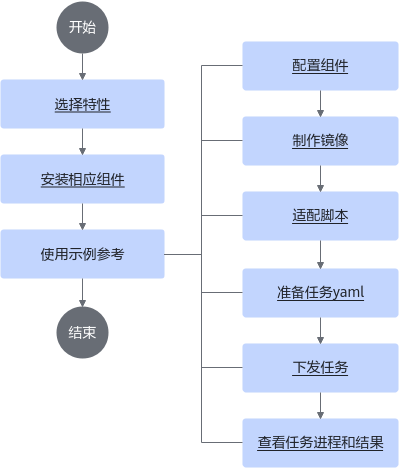
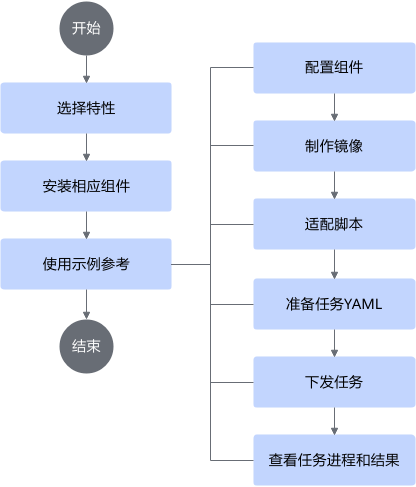
【docs】修改描述中的Torch-npu、PTA为TorchNPU；修改资料错误；修改版本说明书内容

diff --git a/docs/zh/scheduling/04_usage/09_infer_operator_best_practice/05_configuring_elastic_scaling.md b/docs/zh/scheduling/04_usage/09_infer_operator_best_practice/05_configuring_elastic_scaling.md
@@ -4,8 +4,8 @@ Infer Operator支持给推理实例配置弹性扩缩容策略，从而实现基
 
 ## 前置准备
 
-1. 已完成Infer Operator的[安装部署](../../05_developer_guide/00_installation_deployment/00_manual_installation/07_infer_operator.md)。
-2. 如需配置扩缩容指标类型为External，需先实现并部署相应的External Metrics Adaptor，该Adaptor需要提供推理实例的负载指标（例如请求队列长度、请求处理时间等），可参考[示例](https://gitcode.com/Ascend/mindcluster-deploy/tree/master/infer-operator-metrics-adaptor)进行实现。若为[基于MindIE PyMotor部署Infer Operator推理任务](./02_deploying_infer_operator_inference_job_with_mindie_pymotor.md)场景，可直接部署使用该示例提供的Metrics Adaptor。
+- 已完成Infer Operator的[安装部署](../../05_developer_guide/00_installation_deployment/00_manual_installation/07_infer_operator.md)。
+- 如需配置扩缩容指标类型为External，需先实现并部署相应的External Metrics Adaptor，该Adaptor需要提供推理实例的负载指标（例如请求队列长度、请求处理时间等），可参考[示例](https://gitcode.com/Ascend/mindcluster-deploy/tree/master/infer-operator-metrics-adaptor)进行实现。若为[基于MindIE PyMotor部署Infer Operator推理任务](./02_deploying_infer_operator_inference_job_with_mindie_pymotor.md)场景，可直接部署使用该示例提供的Metrics Adaptor。
 
 ## 弹性扩缩容原理
 
@@ -30,20 +30,20 @@ spec:
       workload:     # prefill中实例的CRD类型信息
         apiVersion: apps/v1
         kind: StatefulSet # workload类型，当前支持StatefulSet/Deployment
-      <strong>scalingPolicy:
-        type: HPA # 弹性扩缩容策略类型，当前支持HPA
-        spec: # HPA配置
-          minReplicas: 1 # 缩容下限
-          maxReplicas: 4 # 扩容上限
-          metrics: # HPA扩缩容指标配置列表
-          - type: External # 指标类型：外部自定义指标（由External Metrics Adapter提供）
-            external:
-              metric:
-                name: num_requests_waiting # 外部指标名称
-              target: # 目标值配置
-                type: AverageValue
-                averageValue: "5"
-          ... # 其他HPA配置项，根据需要添加，需符合HPA配置规范</strong>
+      <strong>scalingPolicy:</strong>
+        <strong>type: HPA # 弹性扩缩容策略类型，当前支持HPA</strong>
+        <strong>spec: # HPA配置</strong>
+          <strong>minReplicas: 1 # 缩容下限</strong>
+          <strong>maxReplicas: 4 # 扩容上限</strong>
+          <strong>metrics: # HPA扩缩容指标配置列表</strong>
+          <strong>- type: External # 指标类型：外部自定义指标（由External Metrics Adapter提供）</strong>
+            <strong>external:</strong>
+              <strong>metric:</strong>
+                <strong>name: num_requests_waiting # 外部指标名称</strong>
+              <strong>target: # 目标值配置</strong>
+                <strong>type: AverageValue</strong>
+                <strong>averageValue: "5"</strong>
+          <strong>... # 其他HPA配置项，根据需要添加，需符合HPA配置规范</strong>
       metadata:
         labels:
           infer.huawei.com/gang-schedule: 'false' # 关闭gang调度，开启时会为每一个workload实例创建PodGroup
@@ -81,20 +81,20 @@ spec:
       workload:     # decode中实例的CRD类型信息
         apiVersion: apps/v1
         kind: StatefulSet # workload类型，当前支持StatefulSet/Deployment
-      <strong>scalingPolicy:
-        type: HPA # 弹性扩缩容策略类型，当前支持HPA
-        spec: # HPA配置
-          minReplicas: 1 # 缩容下限
-          maxReplicas: 4 # 扩容上限
-          metrics: # HPA扩缩容指标配置列表
-          - type: External # 指标类型：外部自定义指标（由External Metrics Adapter提供）
-            external:
-              metric:
-                name: generation_tokens_per_second # 外部指标名称
-              target: # 目标值配置
-                type: AverageValue
-                averageValue: "10"
-          ... # 其他HPA配置项，根据需要添加，需符合HPA配置规范</strong>
+      <strong>scalingPolicy:</strong>
+        <strong>type: HPA # 弹性扩缩容策略类型，当前支持HPA</strong>
+        <strong>spec: # HPA配置</strong>
+          <strong>minReplicas: 1 # 缩容下限</strong>
+          <strong>maxReplicas: 4 # 扩容上限</strong>
+          <strong>metrics: # HPA扩缩容指标配置列表</strong>
+          <strong>- type: External # 指标类型：外部自定义指标（由External Metrics Adapter提供）</strong>
+            <strong>external:</strong>
+              <strong>metric:</strong>
+                <strong>name: generation_tokens_per_second # 外部指标名称</strong>
+              <strong>target: # 目标值配置</strong>
+                <strong>type: AverageValue</strong>
+                <strong>averageValue: "10"</strong>
+          <strong>... # 其他HPA配置项，根据需要添加，需符合HPA配置规范</strong>
       metadata:
         labels:
           infer.huawei.com/gang-schedule: 'false' # 关闭gang调度，开启时会为每一个workload实例创建PodGroup

diff --git a/docs/zh/release_notes.md b/docs/zh/release_notes.md
@@ -32,7 +32,7 @@
 
 |MindCluster|CANN| HDK                                                                   |MindSpeed-LLM|TorchNPU|MindSpore|
 |--|--|-----------------------------------------------------------------------|--|--|--|
-|26.1.0|9.1.0| <ul><li>26.1.0(Atlas A2/A3系列)</li><li> 25.1.RC1(Atlas A5系列)</li></ul> |26.1.0|26.1.0|2.10.0|
+|26.1.0|9.1.0| <ul><li>Atlas A2/A3 系列产品：26.1.0</li><li>Ascend 950 系列产品：25.1.RC1</li></ul> |26.1.0|26.1.0|2.10.0|
 
 ### 版本兼容性说明
 
@@ -257,7 +257,7 @@ MindCluster各组件需要配套使用，请勿跨版本混用各组件。
 |--|----------------------------------------------------------------------------------------------------------------------------------------------------------------------------------------------------------------------------------------------------------------------------------------------------------------------------------------------------------------------------------------------------------------------------------------------------------------------------------------------------------------------------------------------------------------------------------------------------------------------|
 |MindIO| MindIO支持IPv6场景。                                                                                                                                                                                                                                                                                                                                                                                                                                                                                                                                                                                                      |
 |MindCluster Ascend FaultDiag| <ul><li>新增Ascend 950 系列产品的故障模式库。</li><li>新增基于pyMotor+vLLM的故障模式库。</li><li>优化链路诊断工具输出报告的内容。</li><li>故障诊断支持IPv6场景。</li></ul>                                                                                                                                                                                                                                                                                                                                                                                                                                                                                            |
-|MindCluster基础组件| <ul><li>支持存储DTFS故障。</li><li>Volcano支持Pod优先调度回原运行节点。</li><li>Ascend device plugin故障处理插件化。</li><li>支持带内检测1825故障上报。</li><li>提供1825网卡的RDMA设备插件。</li><li>发布镜像新增openEuler。</li><li>社区资料、组件的安装与部署易用性提升。</li><li>NPU Exporter支持分组配置采集周期。</li><li>Atlas 9000 A3 SuperPoD 集群算力系统能力补齐。</li><li>支持配置存活探针。</li><li>新增卡死检测与恢复功能。</li><li>支持Atlas 850 系列硬件产品和Atlas 950 SuperPoD的设备管理、亲和性调度、指标监控、故障检测，RankTable生成等基础能力。</li><li>支持Atlas 850 系列硬件产品的基础断点续训能力；支持Atlas 950 SuperPoD的全量断点续训能力。</li><li>支持Atlas 850 系列硬件产品和Atlas 950 SuperPoD的容器化能力。</li><li>支持推理故障恢复能力，包括优先级调度、缩P保D和实例级重调度。</li><li>支持推理场景基于负载的弹性扩缩容能力和容器快照能力。</li></ul> |
+|MindCluster基础组件| <ul><li>支持存储DTFS故障。</li><li>Volcano支持Pod优先调度回原运行节点。</li><li>Ascend Device Plugin故障处理插件化。</li><li>支持带内检测1825故障上报。</li><li>提供1825网卡的RDMA设备插件。</li><li>发布镜像新增openEuler。</li><li>社区资料、组件的安装与部署易用性提升。</li><li>NPU Exporter支持分组配置采集周期。</li><li>Atlas 9000 A3 SuperPoD 集群算力系统能力补齐。</li><li>支持配置存活探针。</li><li>新增卡死检测与恢复功能。</li><li>支持Atlas 850 系列硬件产品和Atlas 950 SuperPoD的设备管理、亲和性调度、指标监控、故障检测，RankTable生成等基础能力。</li><li>支持Atlas 850 系列硬件产品的基础断点续训能力；支持Atlas 950 SuperPoD的全量断点续训能力。</li><li>支持Atlas 850 系列硬件产品和Atlas 950 SuperPoD的容器化能力。</li><li>支持推理故障恢复能力，包括优先级调度、缩P保D和实例级重调度。</li><li>支持推理场景基于负载的弹性扩缩容能力和容器快照能力。</li></ul> |
 
 ### 关键特性变更
 
@@ -268,10 +268,10 @@ MindCluster基础组件：
 
 ### 业务接口变更
 
-|特性名称| 接口变更                                                                                                                                 |
-|--|--------------------------------------------------------------------------------------------------------------------------------------|
-|MindCluster Ascend FaultDiag| <ul><li>链路诊断工具新增配置命令set_config_dir，当前仅支持设置组网配置文件LLD.xlsx所在路径。</li><li>性能劣化功能（资源抢占和网络拥塞）采集指标数据时对训练、推理业务性能有一定影响，该特性将在后续版本日落。</li></ul> |
-|MindCluster基础组件| <ul><li>所有K8s组件新增了存活探针。</li></ul>|                                                                                                    |
+|特性名称|接口变更|
+|--|--|
+|MindCluster Ascend FaultDiag|<ul><li>链路诊断工具新增配置命令set_config_dir，当前仅支持设置组网配置文件LLD.xlsx所在路径。</li><li>性能劣化功能（资源抢占和网络拥塞）采集指标数据时对训练、推理业务性能有一定影响，该特性将在后续版本日落。</li></ul>|
+|MindCluster基础组件|所有K8s组件新增存活探针。|
 
 ### 已解决的问题
 
@@ -282,8 +282,7 @@ MindCluster基础组件：
 
 ### 遗留问题
 
-进程级重调度特性在多次重调度恢复后，可能存在pytorch原生组件gloo的段错误问题，概率约0.00125，[细节可参考pytorch的issue 188266](https://github.com/pytorch/pytorch/issues/188266)。
-可以通过配置Job/Pod重调度作为兜底措施。
+进程级别重调度特性在多次重调度恢复后，可能存在PyTorch原生组件gloo的段错误问题，概率约0.00125，详细请参见[issue 188266](https://github.com/pytorch/pytorch/issues/188266)。可以通过配置Job/Pod重调度作为兜底措施。
 
 ## 升级影响
 

diff --git a/docs/zh/scheduling/06_api/15_yaml_configuration.md b/docs/zh/scheduling/06_api/15_yaml_configuration.md
@@ -76,7 +76,7 @@
 |status.replicaStatuses.[ReplicaType].labelSelector.matchLabels|对象 (object)|-|标签匹配的键值对（等价于matchExpressions条件）。|
 |status.startTime|字符串 (string)|date-time|作业开始时间（RFC3339格式，UTC）。|
 |metadata.annotations['huawei.com/AscendXXX']|字符串 (string)|-|XXX表示芯片的型号，支持的取值为910，310和310P。取值需要和环境上实际的芯片类型保持一致。Ascend Docker Runtime会获取该参数值，用于给容器挂载相应类型的NPU。<div class="note"><span class="notetitle">[!NOTE] 说明</span><div class="notebody"><ul><li>该参数只支持使用Volcano调度器的整卡调度特性，使用静态vNPU调度和其他调度器的用户需要删除示例YAML中该参数的相关字段。</li><li>Atlas 350 标卡、Atlas 850 系列硬件产品、Atlas 950 SuperPoD需配置为metadata.annotations['huawei.com/npu']。</li></ul></div></div>|
-|huawei.com/Ascend910|数字|-|请求的NPU数量，请根据实际修改。<div class="note"><span class="notetitle">[!NOTE] 说明</span><div class="notebody">Atlas 350 标卡、Atlas 850 系列硬件产品、Atlas 950 SuperPoD需配置为metadata.annotations['huawei.com/npu']。</div></div>Atlas 800 训练服务器（NPU满配）：<ul><li>单机单芯片任务：1</li><li>单机多芯片任务：2、4、8</li><li>分布式任务：1、2、4、8</li></ul>Atlas 800训练服务器（NPU半配）：<ul><li>单机单芯片任务：1</li><li>单机多芯片任务：2、4</li><li>分布式任务：1、2、4</li></ul>服务器（插Atlas 300T训练卡）：<ul><li>单机单芯片任务：1</li><li>单机多芯片任务：2</li><li>分布式任务：2</li></ul>Atlas 800T A2训练服务器和Atlas 900 A2 PoD集群基础单元：<ul><li>单机单芯片任务：1</li><li>单机多芯片任务：2、3、4、5、6、7、8</li><li>分布式任务：1、2、3、4、5、6、7、8</li></ul>Atlas 200T A2 Box16 异构子框和Atlas 200I A2 Box16 异构子框：<ul><li>单机单芯片任务：1</li><li>单机多芯片任务：2、3、4、5、6、7、8、10、12、14、16</li><li>分布式任务：1、2、3、4、5、6、7、8、10、12、14、16</li></ul>Atlas 900 A3 SuperPoD 超节点、A200T A3 Box8 超节点服务器、Atlas 800T A3 超节点服务器：<ul><li>单机单芯片任务：1</li><li>单机多芯片任务：2、4、6、8、10、12、14、16</li><li>分布式任务：2、4、6、8、10、12、14、16</li><li>针对Atlas 900 A3 SuperPoD 超节点的逻辑超节点亲和任务：16</li></ul>Atlas 350 标卡服务器（无互联节点内8卡）：<ul><li>单机：1、2、3、4、5、6、7、8</li><li>分布式：1、2、3、4、5、6、7、8</li></ul>Atlas 350 标卡服务器（无互联节点内16卡）：<ul><li>单机：1、2、3、4、5、6、7、8、9、10、11、12、13、14、15、16</li><li>分布式：1、2、3、4、5、6、7、8、9、10、11、12、13、14、15、16</li></ul>Atlas 350 标卡（4P mesh 8卡）：<ul><li>单机（满足亲和性）：1、2、3、4、8</li><li>单机（不保证亲和性）：5、6、7</li><li>分布式（满足亲和性）：1、2、3、4、8</li><li>分布式（不保证亲和性）：5、6、7</li></ul>Atlas 350 标卡（4P mesh 16卡）：<ul><li>单机（满足亲和性）：1、2、3、4、8、12、16</li><li>单机（不保证亲和性）：5、6、7、9、10、11、13、14、15</li><li>分布式（满足亲和性）：1、2、3、4、8、12、16</li><li>分布式（不保证亲和性）：5、6、7、9、10、11、13、14、15</li></ul>Atlas 850 系列硬件产品（普通集群）：<ul><li>单机：1、2、3、4、5、6、7、8</li><li>分布式：1、2、3、4、5、6、7、8</li></ul>Atlas 850 系列硬件产品（超节点集群）：<ul><li>单机：1、2、4、8（sp-block参数取值与其保持一致）</li><li>分布式：8（sp-block参数取值需为8或8的倍数，且能被任务所需总卡数整除，且不能大于物理超节点大小）</li></ul>Atlas 950 SuperPoD：<ul><li>单机：1、2、3、4、5、6、7、8（sp-block参数取值与其保持一致）</li><li>分布式：8（sp-block参数取值需为8或8的倍数，且能被任务所需总卡数整除，且不能大于物理超节点大小）</li></ul>|
+|huawei.com/Ascend910|数字|-|请求的NPU数量，请根据实际修改。<div class="note"><span class="notetitle">[!NOTE] 说明</span><div class="notebody">Atlas 350 标卡、Atlas 850 系列硬件产品、Atlas 950 SuperPoD需配置为metadata.annotations['huawei.com/npu']。</div></div>Atlas 800 训练服务器（NPU满配）：<ul><li>单机单芯片任务：1</li><li>单机多芯片任务：2、4、8</li><li>分布式任务：1、2、4、8</li></ul>Atlas 800训练服务器（NPU半配）：<ul><li>单机单芯片任务：1</li><li>单机多芯片任务：2、4</li><li>分布式任务：1、2、4</li></ul>服务器（插Atlas 300T训练卡）：<ul><li>单机单芯片任务：1</li><li>单机多芯片任务：2</li><li>分布式任务：2</li></ul>Atlas 800T A2训练服务器和Atlas 900 A2 PoD集群基础单元：<ul><li>单机单芯片任务：1</li><li>单机多芯片任务：2、3、4、5、6、7、8</li><li>分布式任务：1、2、3、4、5、6、7、8</li></ul>Atlas 200T A2 Box16 异构子框和Atlas 200I A2 Box16 异构子框：<ul><li>单机单芯片任务：1</li><li>单机多芯片任务：2、3、4、5、6、7、8、10、12、14、16</li><li>分布式任务：1、2、3、4、5、6、7、8、10、12、14、16</li></ul>Atlas 900 A3 SuperPoD 超节点、A200T A3 Box8 超节点服务器、Atlas 800T A3 超节点服务器：<ul><li>单机单芯片任务：1</li><li>单机多芯片任务：2、4、6、8、10、12、14、16</li><li>分布式任务：2、4、6、8、10、12、14、16</li><li>针对Atlas 900 A3 SuperPoD 超节点的逻辑超节点亲和任务：16</li></ul>Atlas 350 标卡服务器（无互联节点内8卡）：<ul><li>单机：1、2、3、4、5、6、7、8</li><li>分布式：1、2、3、4、5、6、7、8</li></ul>Atlas 350 标卡服务器（无互联节点内16卡）：<ul><li>单机：1、2、3、4、5、6、7、8、9、10、11、12、13、14、15、16</li><li>分布式：1、2、3、4、5、6、7、8、9、10、11、12、13、14、15、16</li></ul>Atlas 350 标卡服务器（4P mesh 8卡）：<ul><li>单机（满足亲和性）：1、2、3、4、8</li><li>单机（不保证亲和性）：5、6、7</li><li>分布式（满足亲和性）：1、2、3、4、8</li><li>分布式（不保证亲和性）：5、6、7</li></ul>Atlas 350 标卡服务器（4P mesh 16卡）：<ul><li>单机（满足亲和性）：1、2、3、4、8、12、16</li><li>单机（不保证亲和性）：5、6、7、9、10、11、13、14、15</li><li>分布式（满足亲和性）：1、2、3、4、8、12、16</li><li>分布式（不保证亲和性）：5、6、7、9、10、11、13、14、15</li></ul>Atlas 850 系列硬件产品（普通集群）：<ul><li>单机：1、2、3、4、5、6、7、8</li><li>分布式：1、2、3、4、5、6、7、8</li></ul>Atlas 850 系列硬件产品（超节点集群）：<ul><li>单机：1、2、4、8（sp-block参数取值与其保持一致）</li><li>分布式：8（sp-block参数取值需为8或8的倍数，且能被任务所需总卡数整除，且不能大于物理超节点大小）</li></ul>Atlas 950 SuperPoD：<ul><li>单机：1、2、3、4、5、6、7、8（sp-block参数取值与其保持一致）</li><li>分布式：8（sp-block参数取值需为8或8的倍数，且能被任务所需总卡数整除，且不能大于物理超节点大小）</li></ul>|
 |super-pod-affinity|字符串 (string)|-|<p>仅支持在Atlas 900 A3 SuperPoD 超节点中使用本参数。超节点任务使用的亲和性调度策略，需要用户在YAML的label中声明。</p><ul><li>soft：集群资源不满足超节点亲和性时，任务使用集群中碎片资源继续调度。</li><li>hard：集群资源不满足超节点亲和性时，任务Pending，等待资源。</li><li>其他值或不传入此参数：强制超节点亲和性调度</li></ul>|
 |<ul><li>customJobKey</li><li>custom-job-id</li></ul>|字符串 (string)|-|<p>支持通过customJobKey或custom-job-id设置作业唯一标识符，方便用户根据该标识符过滤作业相关的告警、ISSUE等关键信息。在资源AscendJob的metadata.labels标签中设置。</p><ul><li>customJobKey：用户自定义标签，以二级跳转的方式设置作业唯一标识符，如：<p>customJobKey: tid</p><p>tid: "123456"</p></li><li>custom-job-id：用户自定义标签，直接设置作业唯一标识符，如：<p>custom-job-id："123456"</p></li></ul>|
 |huawei.com/scheduler.softShareDev.aicoreQuota|字符串 (string)|-|请求的AICore百分比，取值范围为[1, 100]。|
@@ -243,7 +243,7 @@
     </ul>
 </li>
 <li>
-    <span>Atlas 350 标卡（4P mesh 8卡）</span>：
+    <span>Atlas 350 标卡服务器（4P mesh 8卡）</span>：
     <ul>
         <li>单机（满足亲和性）：1、2、3、4、8</li>
         <li>单机（不保证亲和性）：5、6、7</li>
@@ -252,7 +252,7 @@
     </ul>
 </li>
 <li>
-    <span>Atlas 350 标卡（4P mesh 16卡）</span>：
+    <span>Atlas 350 标卡服务器（4P mesh 16卡）</span>：
     <ul>
         <li>单机（满足亲和性）：1、2、3、4、8、12、16</li>
         <li>单机（不保证亲和性）：5、6、7、9、10、11、13、14、15</li>
@@ -340,7 +340,7 @@
     </ul>
 </li>
 <li>
-    <span>Atlas 350 标卡（4P mesh 8卡）</span>：
+    <span>Atlas 350 标卡服务器（4P mesh 8卡）</span>：
     <ul>
         <li>单机（满足亲和性）：1、2、3、4、8</li>
         <li>单机（不保证亲和性）：5、6、7</li>
@@ -349,7 +349,7 @@
     </ul>
 </li>
 <li>
-    <span>Atlas 350 标卡（4P mesh 16卡）</span>：
+    <span>Atlas 350 标卡服务器（4P mesh 16卡）</span>：
     <ul>
         <li>单机（满足亲和性）：1、2、3、4、8、12、16</li>
         <li>单机（不保证亲和性）：5、6、7、9、10、11、13、14、15</li>
@@ -728,7 +728,7 @@
     </ul>
 </li>
 <li>
-    <span>Atlas 350 标卡（4P mesh 8卡）</span>：
+    <span>Atlas 350 标卡服务器（4P mesh 8卡）</span>：
     <ul>
         <li>单机（满足亲和性）：1、2、3、4、8</li>
         <li>单机（不保证亲和性）：5、6、7</li>
@@ -737,7 +737,7 @@
     </ul>
 </li>
 <li>
-    <span>Atlas 350 标卡（4P mesh 16卡）</span>：
+    <span>Atlas 350 标卡服务器（4P mesh 16卡）</span>：
     <ul>
         <li>单机（满足亲和性）：1、2、3、4、8、12、16</li>
         <li>单机（不保证亲和性）：5、6、7、9、10、11、13、14、15</li>

diff --git a/docs/zh/scheduling/04_usage/04_resumable_training/03_configuration/03_configuring_training_recovery.md b/docs/zh/scheduling/04_usage/04_resumable_training/03_configuration/03_configuring_training_recovery.md
@@ -238,7 +238,7 @@ spec:
 
 **故障检测时间优化<a name="zh-cn_topic_0000002163883997_zh-cn_topic_0000002017918296_section195202179141"></a>**
 
-由于集群中出现的参数面网络故障不一定会影响训练任务，因此集群调度组件不会强制中断任务；当参数面网络故障影响训练任务时，会触发集合通信的网络超时等待机制，在等待时间（默认为30分钟）后，集群调度组件才能感知到该故障，从而触发断点续训。针对该问题，PyTorch Adapter插件（torch\_npu）提供**watchdog故障检测**功能，可用于检测训练任务是否受到影响，缩短故障检测时间，该功能的详细说明请参见[表1](#zh-cn_topic_0000002163883997_zh-cn_topic_0000002017918296_table4822175901415)。
+由于集群中出现的参数面网络故障不一定会影响训练任务，因此集群调度组件不会强制中断任务；当参数面网络故障影响训练任务时，会触发集合通信的网络超时等待机制，在等待时间（默认为30分钟）后，集群调度组件才能感知到该故障，从而触发断点续训。针对该问题，PyTorch Adapter插件（TorchNPU）提供**watchdog故障检测**功能，可用于检测训练任务是否受到影响，缩短故障检测时间，该功能的详细说明请参见[表1](#zh-cn_topic_0000002163883997_zh-cn_topic_0000002017918296_table4822175901415)。
 
 **表 1** watchdog故障检测功能说明
 
@@ -255,7 +255,7 @@ spec:
 </tr>
 <tr id="zh-cn_topic_0000002163883997_zh-cn_topic_0000002017918296_row138235598144"><th class="firstcol" valign="top" width="20%" id="mcps1.2.3.3.1"><p id="zh-cn_topic_0000002163883997_zh-cn_topic_0000002017918296_p15823155941416"><a name="zh-cn_topic_0000002163883997_zh-cn_topic_0000002017918296_p15823155941416"></a><a name="zh-cn_topic_0000002163883997_zh-cn_topic_0000002017918296_p15823155941416"></a>使用说明</p>
 </th>
-<td class="cellrowborder" valign="top" width="80%" headers="mcps1.2.3.3.1 "><p id="zh-cn_topic_0000002163883997_zh-cn_topic_0000002017918296_p1982365912149"><a name="zh-cn_topic_0000002163883997_zh-cn_topic_0000002017918296_p1982365912149"></a><a name="zh-cn_topic_0000002163883997_zh-cn_topic_0000002017918296_p1982365912149"></a>仅支持<span id="zh-cn_topic_0000002163883997_zh-cn_topic_0000002017918296_ph1810104910187"><a name="zh-cn_topic_0000002163883997_zh-cn_topic_0000002017918296_ph1810104910187"></a><a name="zh-cn_topic_0000002163883997_zh-cn_topic_0000002017918296_ph1810104910187"></a>PyTorch</span> 1.11.0、2.1.0及以上版本；<span id="zh-cn_topic_0000002163883997_zh-cn_topic_0000002017918296_ph1758915488355"><a name="zh-cn_topic_0000002163883997_zh-cn_topic_0000002017918296_ph1758915488355"></a><a name="zh-cn_topic_0000002163883997_zh-cn_topic_0000002017918296_ph1758915488355"></a>PyTorch</span> Adapter插件（torch_npu）版本必须高于6.0.RC1。</p>
+<td class="cellrowborder" valign="top" width="80%" headers="mcps1.2.3.3.1 "><p id="zh-cn_topic_0000002163883997_zh-cn_topic_0000002017918296_p1982365912149"><a name="zh-cn_topic_0000002163883997_zh-cn_topic_0000002017918296_p1982365912149"></a><a name="zh-cn_topic_0000002163883997_zh-cn_topic_0000002017918296_p1982365912149"></a>仅支持<span id="zh-cn_topic_0000002163883997_zh-cn_topic_0000002017918296_ph1810104910187"><a name="zh-cn_topic_0000002163883997_zh-cn_topic_0000002017918296_ph1810104910187"></a><a name="zh-cn_topic_0000002163883997_zh-cn_topic_0000002017918296_ph1810104910187"></a>PyTorch</span> 1.11.0、2.1.0及以上版本；<span id="zh-cn_topic_0000002163883997_zh-cn_topic_0000002017918296_ph1758915488355"><a name="zh-cn_topic_0000002163883997_zh-cn_topic_0000002017918296_ph1758915488355"></a><a name="zh-cn_topic_0000002163883997_zh-cn_topic_0000002017918296_ph1758915488355"></a>PyTorch</span> Adapter插件（TorchNPU）版本必须高于6.0.RC1。</p>
 </td>
 </tr>
 <tr id="zh-cn_topic_0000002163883997_zh-cn_topic_0000002017918296_row11823195941410"><th class="firstcol" valign="top" width="20%" id="mcps1.2.3.4.1"><p id="zh-cn_topic_0000002163883997_zh-cn_topic_0000002017918296_p17823959121418"><a name="zh-cn_topic_0000002163883997_zh-cn_topic_0000002017918296_p17823959121418"></a><a name="zh-cn_topic_0000002163883997_zh-cn_topic_0000002017918296_p17823959121418"></a>关键操作</p>
@@ -291,8 +291,8 @@ Parallel Store多线程建链优化：PyTorch框架创建通信组时，使用TC
 </tr>
 <tr id="zh-cn_topic_0000002163883997_zh-cn_topic_0000002017918296_row1913318574324"><th class="firstcol" valign="top" width="20%" id="mcps1.2.3.3.1"><p id="zh-cn_topic_0000002163883997_zh-cn_topic_0000002017918296_p5133175711322"><a name="zh-cn_topic_0000002163883997_zh-cn_topic_0000002017918296_p5133175711322"></a><a name="zh-cn_topic_0000002163883997_zh-cn_topic_0000002017918296_p5133175711322"></a>使用说明</p>
 </th>
-<td class="cellrowborder" valign="top" width="80%" headers="mcps1.2.3.3.1 "><p id="zh-cn_topic_0000002163883997_zh-cn_topic_0000002017918296_p5133165713217"><a name="zh-cn_topic_0000002163883997_zh-cn_topic_0000002017918296_p5133165713217"></a><a name="zh-cn_topic_0000002163883997_zh-cn_topic_0000002017918296_p5133165713217"></a><span id="zh-cn_topic_0000002163883997_zh-cn_topic_0000002017918296_ph1493841033420"><a name="zh-cn_topic_0000002163883997_zh-cn_topic_0000002017918296_ph1493841033420"></a><a name="zh-cn_topic_0000002163883997_zh-cn_topic_0000002017918296_ph1493841033420"></a>PyTorch</span> 1.11.0版本：<span id="zh-cn_topic_0000002163883997_zh-cn_topic_0000002017918296_ph14923134593417"><a name="zh-cn_topic_0000002163883997_zh-cn_topic_0000002017918296_ph14923134593417"></a><a name="zh-cn_topic_0000002163883997_zh-cn_topic_0000002017918296_ph14923134593417"></a>PyTorch</span> Adapter插件（torch_npu）版本必须高于6.0.RC1。</p>
-<p id="zh-cn_topic_0000002163883997_zh-cn_topic_0000002017918296_p1599664014012"><a name="zh-cn_topic_0000002163883997_zh-cn_topic_0000002017918296_p1599664014012"></a><a name="zh-cn_topic_0000002163883997_zh-cn_topic_0000002017918296_p1599664014012"></a><span id="zh-cn_topic_0000002163883997_zh-cn_topic_0000002017918296_ph1199694044010"><a name="zh-cn_topic_0000002163883997_zh-cn_topic_0000002017918296_ph1199694044010"></a><a name="zh-cn_topic_0000002163883997_zh-cn_topic_0000002017918296_ph1199694044010"></a>PyTorch</span> 2.1.0及以上版本：<span id="zh-cn_topic_0000002163883997_zh-cn_topic_0000002017918296_ph13996140164020"><a name="zh-cn_topic_0000002163883997_zh-cn_topic_0000002017918296_ph13996140164020"></a><a name="zh-cn_topic_0000002163883997_zh-cn_topic_0000002017918296_ph13996140164020"></a>PyTorch</span> Adapter插件（torch_npu）版本必须高于6.0.RC3。</p>
+<td class="cellrowborder" valign="top" width="80%" headers="mcps1.2.3.3.1 "><p id="zh-cn_topic_0000002163883997_zh-cn_topic_0000002017918296_p5133165713217"><a name="zh-cn_topic_0000002163883997_zh-cn_topic_0000002017918296_p5133165713217"></a><a name="zh-cn_topic_0000002163883997_zh-cn_topic_0000002017918296_p5133165713217"></a><span id="zh-cn_topic_0000002163883997_zh-cn_topic_0000002017918296_ph1493841033420"><a name="zh-cn_topic_0000002163883997_zh-cn_topic_0000002017918296_ph1493841033420"></a><a name="zh-cn_topic_0000002163883997_zh-cn_topic_0000002017918296_ph1493841033420"></a>PyTorch</span> 1.11.0版本：<span id="zh-cn_topic_0000002163883997_zh-cn_topic_0000002017918296_ph14923134593417"><a name="zh-cn_topic_0000002163883997_zh-cn_topic_0000002017918296_ph14923134593417"></a><a name="zh-cn_topic_0000002163883997_zh-cn_topic_0000002017918296_ph14923134593417"></a>PyTorch</span> Adapter插件（TorchNPU）版本必须高于6.0.RC1。</p>
+<p id="zh-cn_topic_0000002163883997_zh-cn_topic_0000002017918296_p1599664014012"><a name="zh-cn_topic_0000002163883997_zh-cn_topic_0000002017918296_p1599664014012"></a><a name="zh-cn_topic_0000002163883997_zh-cn_topic_0000002017918296_p1599664014012"></a><span id="zh-cn_topic_0000002163883997_zh-cn_topic_0000002017918296_ph1199694044010"><a name="zh-cn_topic_0000002163883997_zh-cn_topic_0000002017918296_ph1199694044010"></a><a name="zh-cn_topic_0000002163883997_zh-cn_topic_0000002017918296_ph1199694044010"></a>PyTorch</span> 2.1.0及以上版本：<span id="zh-cn_topic_0000002163883997_zh-cn_topic_0000002017918296_ph13996140164020"><a name="zh-cn_topic_0000002163883997_zh-cn_topic_0000002017918296_ph13996140164020"></a><a name="zh-cn_topic_0000002163883997_zh-cn_topic_0000002017918296_ph13996140164020"></a>PyTorch</span> Adapter插件（TorchNPU）版本必须高于6.0.RC3。</p>
 </td>
 </tr>
 <tr id="zh-cn_topic_0000002163883997_zh-cn_topic_0000002017918296_row16133957183217"><th class="firstcol" valign="top" width="20%" id="mcps1.2.3.4.1"><p id="zh-cn_topic_0000002163883997_zh-cn_topic_0000002017918296_p15134175723214"><a name="zh-cn_topic_0000002163883997_zh-cn_topic_0000002017918296_p15134175723214"></a><a name="zh-cn_topic_0000002163883997_zh-cn_topic_0000002017918296_p15134175723214"></a>关键操作</p>
@@ -352,7 +352,7 @@ Parallel Store多线程建链优化：PyTorch框架创建通信组时，使用TC
     </tr>
     <tr id="zh-cn_topic_0000002163883997_zh-cn_topic_0000002017918296_row2499424194015"><th class="firstcol" valign="top" width="20%" id="mcps1.2.3.3.1"><p id="zh-cn_topic_0000002163883997_zh-cn_topic_0000002017918296_p2499182413406"><a name="zh-cn_topic_0000002163883997_zh-cn_topic_0000002017918296_p2499182413406"></a><a name="zh-cn_topic_0000002163883997_zh-cn_topic_0000002017918296_p2499182413406"></a>使用说明</p>
     </th>
-    <td class="cellrowborder" valign="top" width="80%" headers="mcps1.2.3.3.1 "><p id="zh-cn_topic_0000002163883997_zh-cn_topic_0000002017918296_p44991248407"><a name="zh-cn_topic_0000002163883997_zh-cn_topic_0000002017918296_p44991248407"></a><a name="zh-cn_topic_0000002163883997_zh-cn_topic_0000002017918296_p44991248407"></a><span id="zh-cn_topic_0000002163883997_zh-cn_topic_0000002017918296_ph494239144114"><a name="zh-cn_topic_0000002163883997_zh-cn_topic_0000002017918296_ph494239144114"></a><a name="zh-cn_topic_0000002163883997_zh-cn_topic_0000002017918296_ph494239144114"></a>PyTorch</span> Adapter插件（torch_npu）版本必须高于6.0.RC3。</p>
+    <td class="cellrowborder" valign="top" width="80%" headers="mcps1.2.3.3.1 "><p id="zh-cn_topic_0000002163883997_zh-cn_topic_0000002017918296_p44991248407"><a name="zh-cn_topic_0000002163883997_zh-cn_topic_0000002017918296_p44991248407"></a><a name="zh-cn_topic_0000002163883997_zh-cn_topic_0000002017918296_p44991248407"></a><span id="zh-cn_topic_0000002163883997_zh-cn_topic_0000002017918296_ph494239144114"><a name="zh-cn_topic_0000002163883997_zh-cn_topic_0000002017918296_ph494239144114"></a><a name="zh-cn_topic_0000002163883997_zh-cn_topic_0000002017918296_ph494239144114"></a>PyTorch</span> Adapter插件（TorchNPU）版本必须高于6.0.RC3。</p>
     </td>
     </tr>
     <tr id="zh-cn_topic_0000002163883997_zh-cn_topic_0000002017918296_row4499524124018"><th class="firstcol" valign="top" width="20%" id="mcps1.2.3.4.1"><p id="zh-cn_topic_0000002163883997_zh-cn_topic_0000002017918296_p8499122454018"><a name="zh-cn_topic_0000002163883997_zh-cn_topic_0000002017918296_p8499122454018"></a><a name="zh-cn_topic_0000002163883997_zh-cn_topic_0000002017918296_p8499122454018"></a>关键操作</p>

diff --git a/docs/zh/scheduling/04_usage/02_virtual_instance/00_virtual_instance_with_hdk/05_dynamic_vnpu_scheduling/01_dynamic_vnpu_scheduling_inference.md b/docs/zh/scheduling/04_usage/02_virtual_instance/00_virtual_instance_with_hdk/05_dynamic_vnpu_scheduling/01_dynamic_vnpu_scheduling_inference.md
@@ -540,15 +540,15 @@ deploy任务原理图如[图3](#fig349112913199)所示。
     </tbody>
     </table>
 
-   > [!NOTE]
-   > vnpu-level和vnpu-dvpp的选择结果，具体请参见[表5](#table83781115185619)。
+   >[!NOTE]
+   >vnpu-level和vnpu-dvpp的选择结果，具体请参见[表7](#table83781115185619)。
    >
    >- 表中“降级”表示AICore满足的情况下，其他资源不够（如AICPU）时，模板会选择同AICore下的其他满足资源要求的模板。如在只剩一颗芯片上只有2个AICore，1个AICPU时，vir02模板会降级为vir02\_1c。
    >- 表中“选择模板”中的值来源于[虚拟化模板](./../03_virtualization_templates.md)中表1的Atlas 推理系列产品、“虚拟化实例模板”列的取值。
    >- 表中“vnpu-level”列的“其他值”表示除去“low”和“high”后的任意取值。
    >- 整卡场景下vnpu-dvpp与vnpu-level可以取任意值。
 
-    **表 5**  Atlas 推理系列产品dvpp和level作用结果表
+    **表 7**  Atlas 推理系列产品dvpp和level作用结果表
 
     <a name="table83781115185619"></a>
     <table><thead align="left"><tr id="row1837817157565"><th class="cellrowborder" valign="top" width="17.2982701729827%" id="mcps1.2.7.1.1"><p id="p11560216112"><a name="p11560216112"></a><a name="p11560216112"></a>产品型号</p>

diff --git a/docs/zh/scheduling/07_references/00_fault_recovery_acceleration/02_installation_and_deployment.md b/docs/zh/scheduling/07_references/00_fault_recovery_acceleration/02_installation_and_deployment.md
@@ -83,9 +83,9 @@
 |操作系统|<ul><li>CentOS 7.6</li><li>Ubuntu 18.04</li><li>Ubuntu 20.04</li><li>Ubuntu 22.04</li></ul>|所有节点|-|
 |Python|3.7 ~ 3.11|计算节点|用户安装|
 |Torch|2.7.1|计算节点|用户安装|
-|torch_npu|26.0.0|计算节点|用户安装|
-|CANN|9.0.0|计算节点|用户安装|
-|驱动与固件|26.0.RC1|计算节点|用户安装|
+|TorchNPU|26.1.0|计算节点|用户安装|
+|CANN|9.1.0|计算节点|用户安装|
+|驱动与固件|26.1.0|计算节点|用户安装|
 
 ### 准备软件包
 

diff --git a/docs/en/scheduling/developer_guide/installation_deployment/01_uninstallation.md b/docs/en/scheduling/developer_guide/installation_deployment/01_uninstallation.md
@@ -83,13 +83,13 @@
             - Docker scenario (or K8s integration with Docker scenario)
 
                 ```shell
-                uninstall.sh docker docker <daemon.json file path>
+                ./uninstall.sh docker docker <daemon.json file path>
                 ```
 
             - Containerd scenario (or K8s integrated with Containerd scenario)
 
                 ```shell
-                uninstall.sh containerd containerd <config.toml file path>
+                ./uninstall.sh containerd containerd <config.toml file path>
                 ```
 
             >[!NOTE]

diff --git a/docs/zh/scheduling/04_usage/06_mindie_motor_best_practice/01_deploying_mindie_motor.md b/docs/zh/scheduling/04_usage/06_mindie_motor_best_practice/01_deploying_mindie_motor.md
@@ -45,6 +45,7 @@ MindCluster集群调度组件支持MS Controller、MS Coordinator和MindIE Serve
 通过命令行使用MindCluster集群调度组件部署MindIE Motor推理任务时，使用流程如下图所示。
 
 **图 1**  使用流程<a name="fig38991911205815"></a>
+
 ![](../../../figures/scheduling/使用流程-14.png "使用流程-14")
 
 ### 准备任务YAML<a name="ZH-CN_TOPIC_0000002479386386"></a>
@@ -198,7 +199,8 @@ Atlas 800I A3 超节点服务器场景下，MindCluster集群调度组件支持M
 
 关于逻辑超节点的亲和性调度规则的详细说明，请参见[灵衢总线设备节点网络说明](../03_basic_scheduling/01_affinity_scheduling/03_ascend_ai_processor_based_affinity.md#atlas-900-a3-superpod-超节点)章节。
 
-**图 1**  灵衢总线设备节点网络<a name="zh-cn_topic_0000002362872425_fig1054553210321"></a>
+**图 2**  灵衢总线设备节点网络<a name="zh-cn_topic_0000002362872425_fig1054553210321"></a>
+
 ![](../../../figures/scheduling/灵衢总线设备节点网络.png "灵衢总线设备节点网络")
 
 **配置实例级亲和性调度<a name="zh-cn_topic_0000002362872425_section18872194156"></a>**